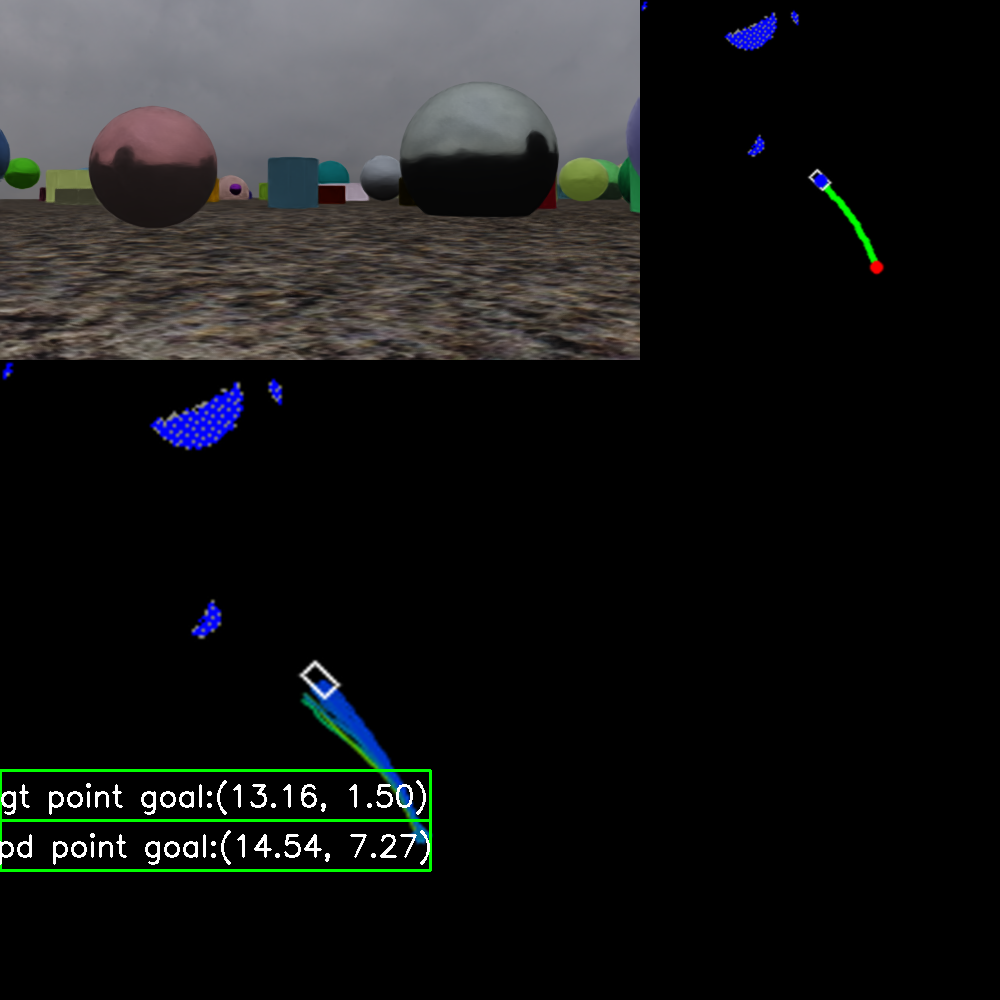
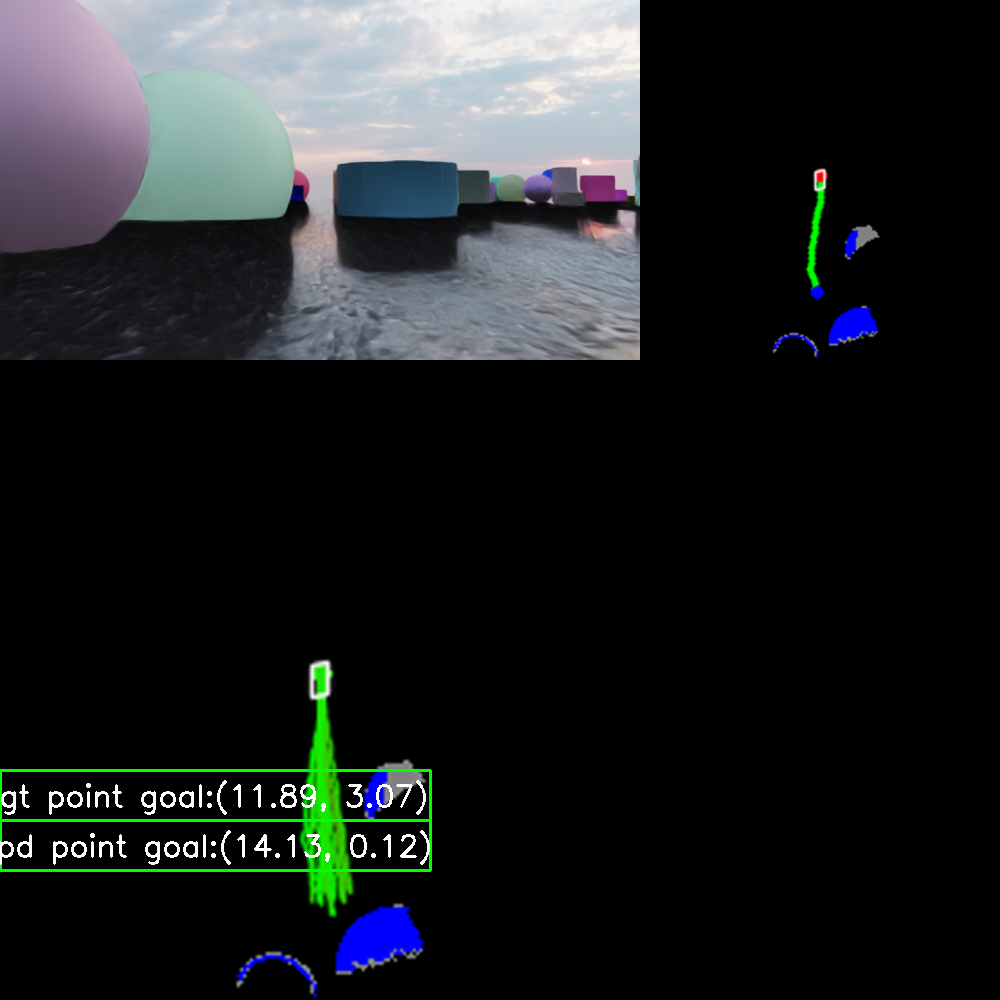
initial eval"

diff --git a/NavDP/baselines/logoplanner/policy_agent.py b/NavDP/baselines/logoplanner/policy_agent.py
@@ -1,3 +1,4 @@
+import re
 import torch
 import numpy as np
 import cv2
@@ -23,8 +24,33 @@ class LoGoPlanner_Agent:
         self.image_size = image_size
         self.memory_size = memory_size
         self.context_size = context_size
+
+        sd = torch.load(navi_model, map_location=self.device)
+        if any(k.startswith('policy.') for k in sd.keys()):
+            sd = {(k[len('policy.'):] if k.startswith('policy.') else k): v for k, v in sd.items()}
+            print("[LoGoPlanner_Agent] stripped 'policy.' prefix from checkpoint keys")
+
+        layer_idxs = set()
+        for k in sd.keys():
+            m = re.search(r'decoder\.layers\.(\d+)\.', k)
+            if m:
+                layer_idxs.add(int(m.group(1)))
+        if layer_idxs:
+            detected_depth = max(layer_idxs) + 1
+            if detected_depth != temporal_depth:
+                print(f"[LoGoPlanner_Agent] overriding temporal_depth {temporal_depth} -> {detected_depth} (from ckpt)")
+                temporal_depth = detected_depth
+
         self.navi_former = LoGoPlanner_Policy(image_size,memory_size,context_size,predict_size,temporal_depth,heads,token_dim,device)
-        self.navi_former.load_state_dict(torch.load(navi_model,map_location=self.device),strict=False)
+        missing, unexpected = self.navi_former.load_state_dict(sd, strict=False)
+        if missing:
+            raise RuntimeError(
+                f"[LoGoPlanner_Agent] {len(missing)} missing keys when loading {navi_model} "
+                f"(model params would be random-initialized). First few: {list(missing)[:5]}"
+            )
+        if unexpected:
+            print(f"[LoGoPlanner_Agent] {len(unexpected)} unexpected keys in checkpoint (ignored): {list(unexpected)[:5]}")
+
         self.navi_former.to(self.device)
         self.navi_former.eval()
         self.target_H, self.target_W = 168, 308

diff --git a/NavDP/evaluation.md b/NavDP/evaluation.md
@@ -1,0 +1,34 @@
+
+## Scene Categories vs. Path Length for Point-Goal Navigation
+
+| Scene | Path lengths | Format | Notes |
+|---|---|---|---|
+| `cluttered_easy/hard` | Short (single room) | Single tarball | Quick smoke tests |
+| `internscenes_home` | Medium (multi-room) | HF tree, many files | Realistic homes |
+| `internscenes_commercial` | Long (large buildings) | Single tarball | Best for long-horizon |
+
+Evaluation Metrics
+| Metric | Full name | Definition (this codebase) | Range | Higher/Lower better |
+|---|---|---|---|---|
+| `success` | Success | 1 if final distance to goal < 1.5 m, else 0 | `{0, 1}` | higher |
+| `SPL` | Success-weighted Path Length | `success × min(optimal_dist / actual_dist, 1)` | `[0, 1]` | higher |
+| `NE` | Navigation Error | Euclidean distance from final robot position to goal (meters) | `≥ 0` | lower |
+| `LE` | Last/Localization Error | Robot's belief vs. truth at termination — diverges when implicit localization drifts | `≥ 0` | lower |
+
+## Result on cluttered_hard
+
+The result is based on evaluation on hard_7 (one of 10 cluttered_hard scenes) with 20 episodes.  
+
+### Results on official ckpt
+```bash
+/home/asus/Research/Nav/NavDP/startgoal_logoplanner_cluttered_hard_OFFICIAL/hard_7
+```
+
+| Metric | Value |
+|---|---|
+| Success rate | 23.8% (5/21) |
+| Mean SPL | 0.227 |
+| Mean NE | 7.82 m |
+
+
+